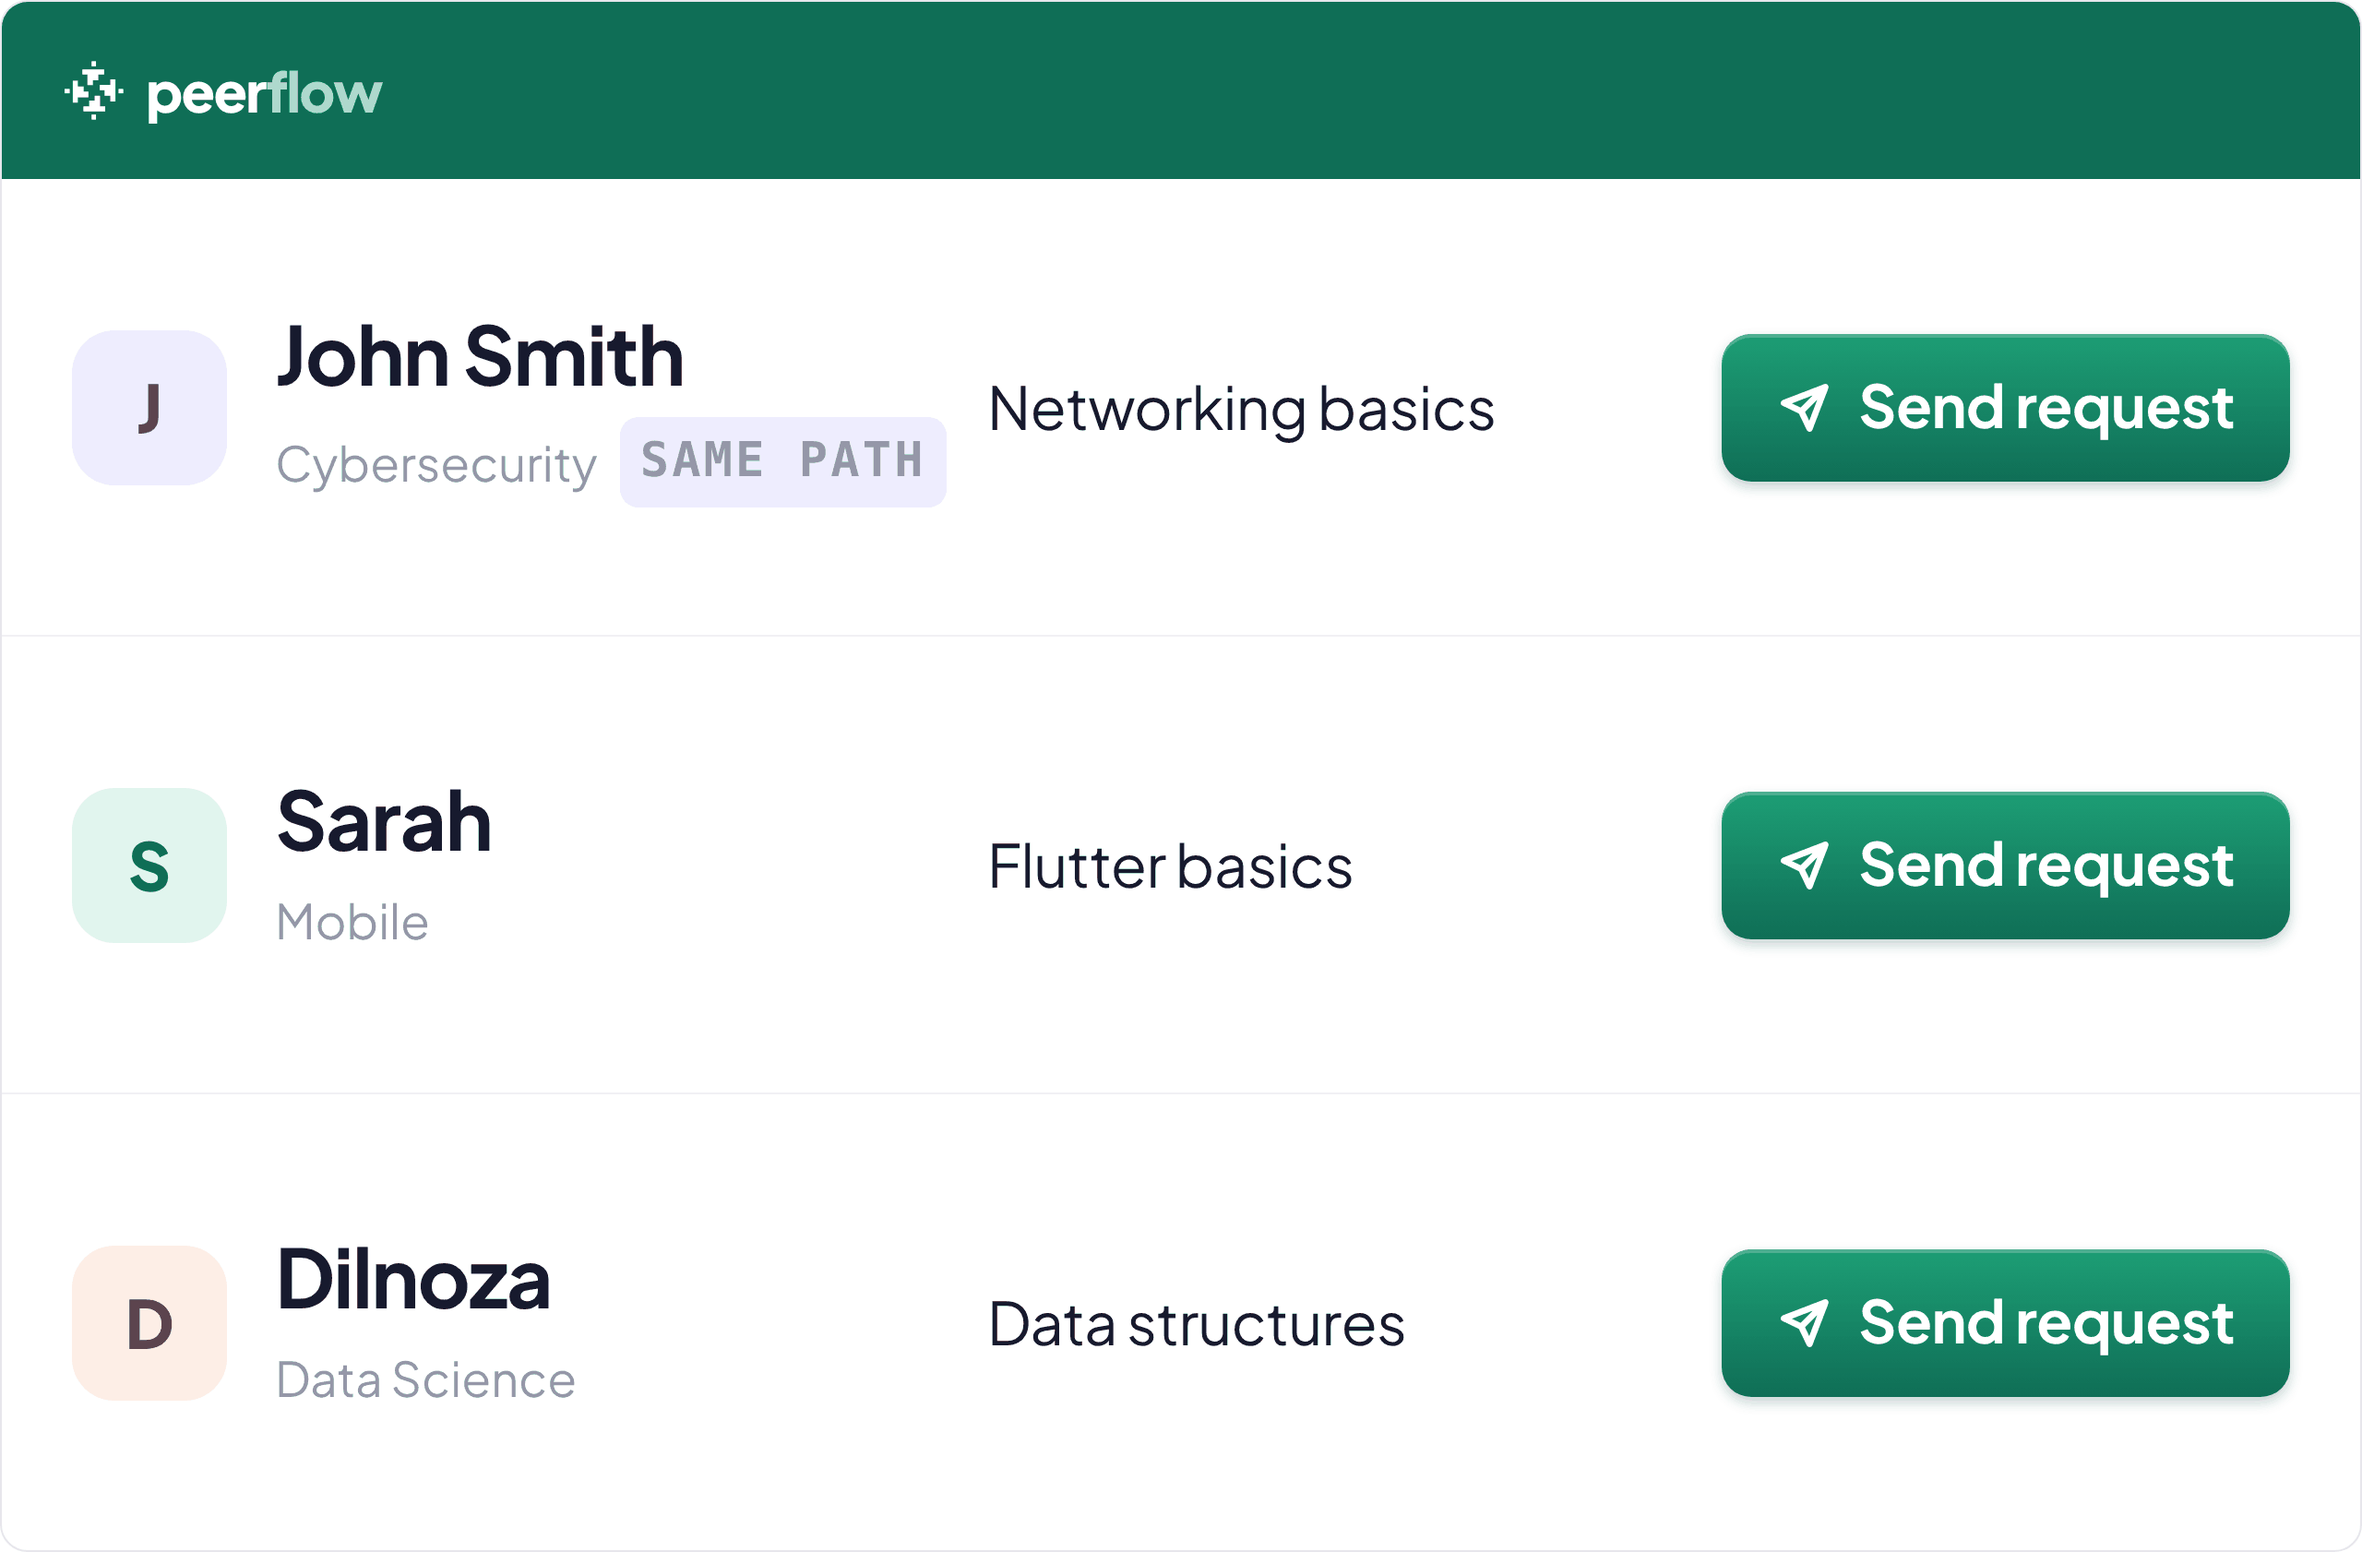
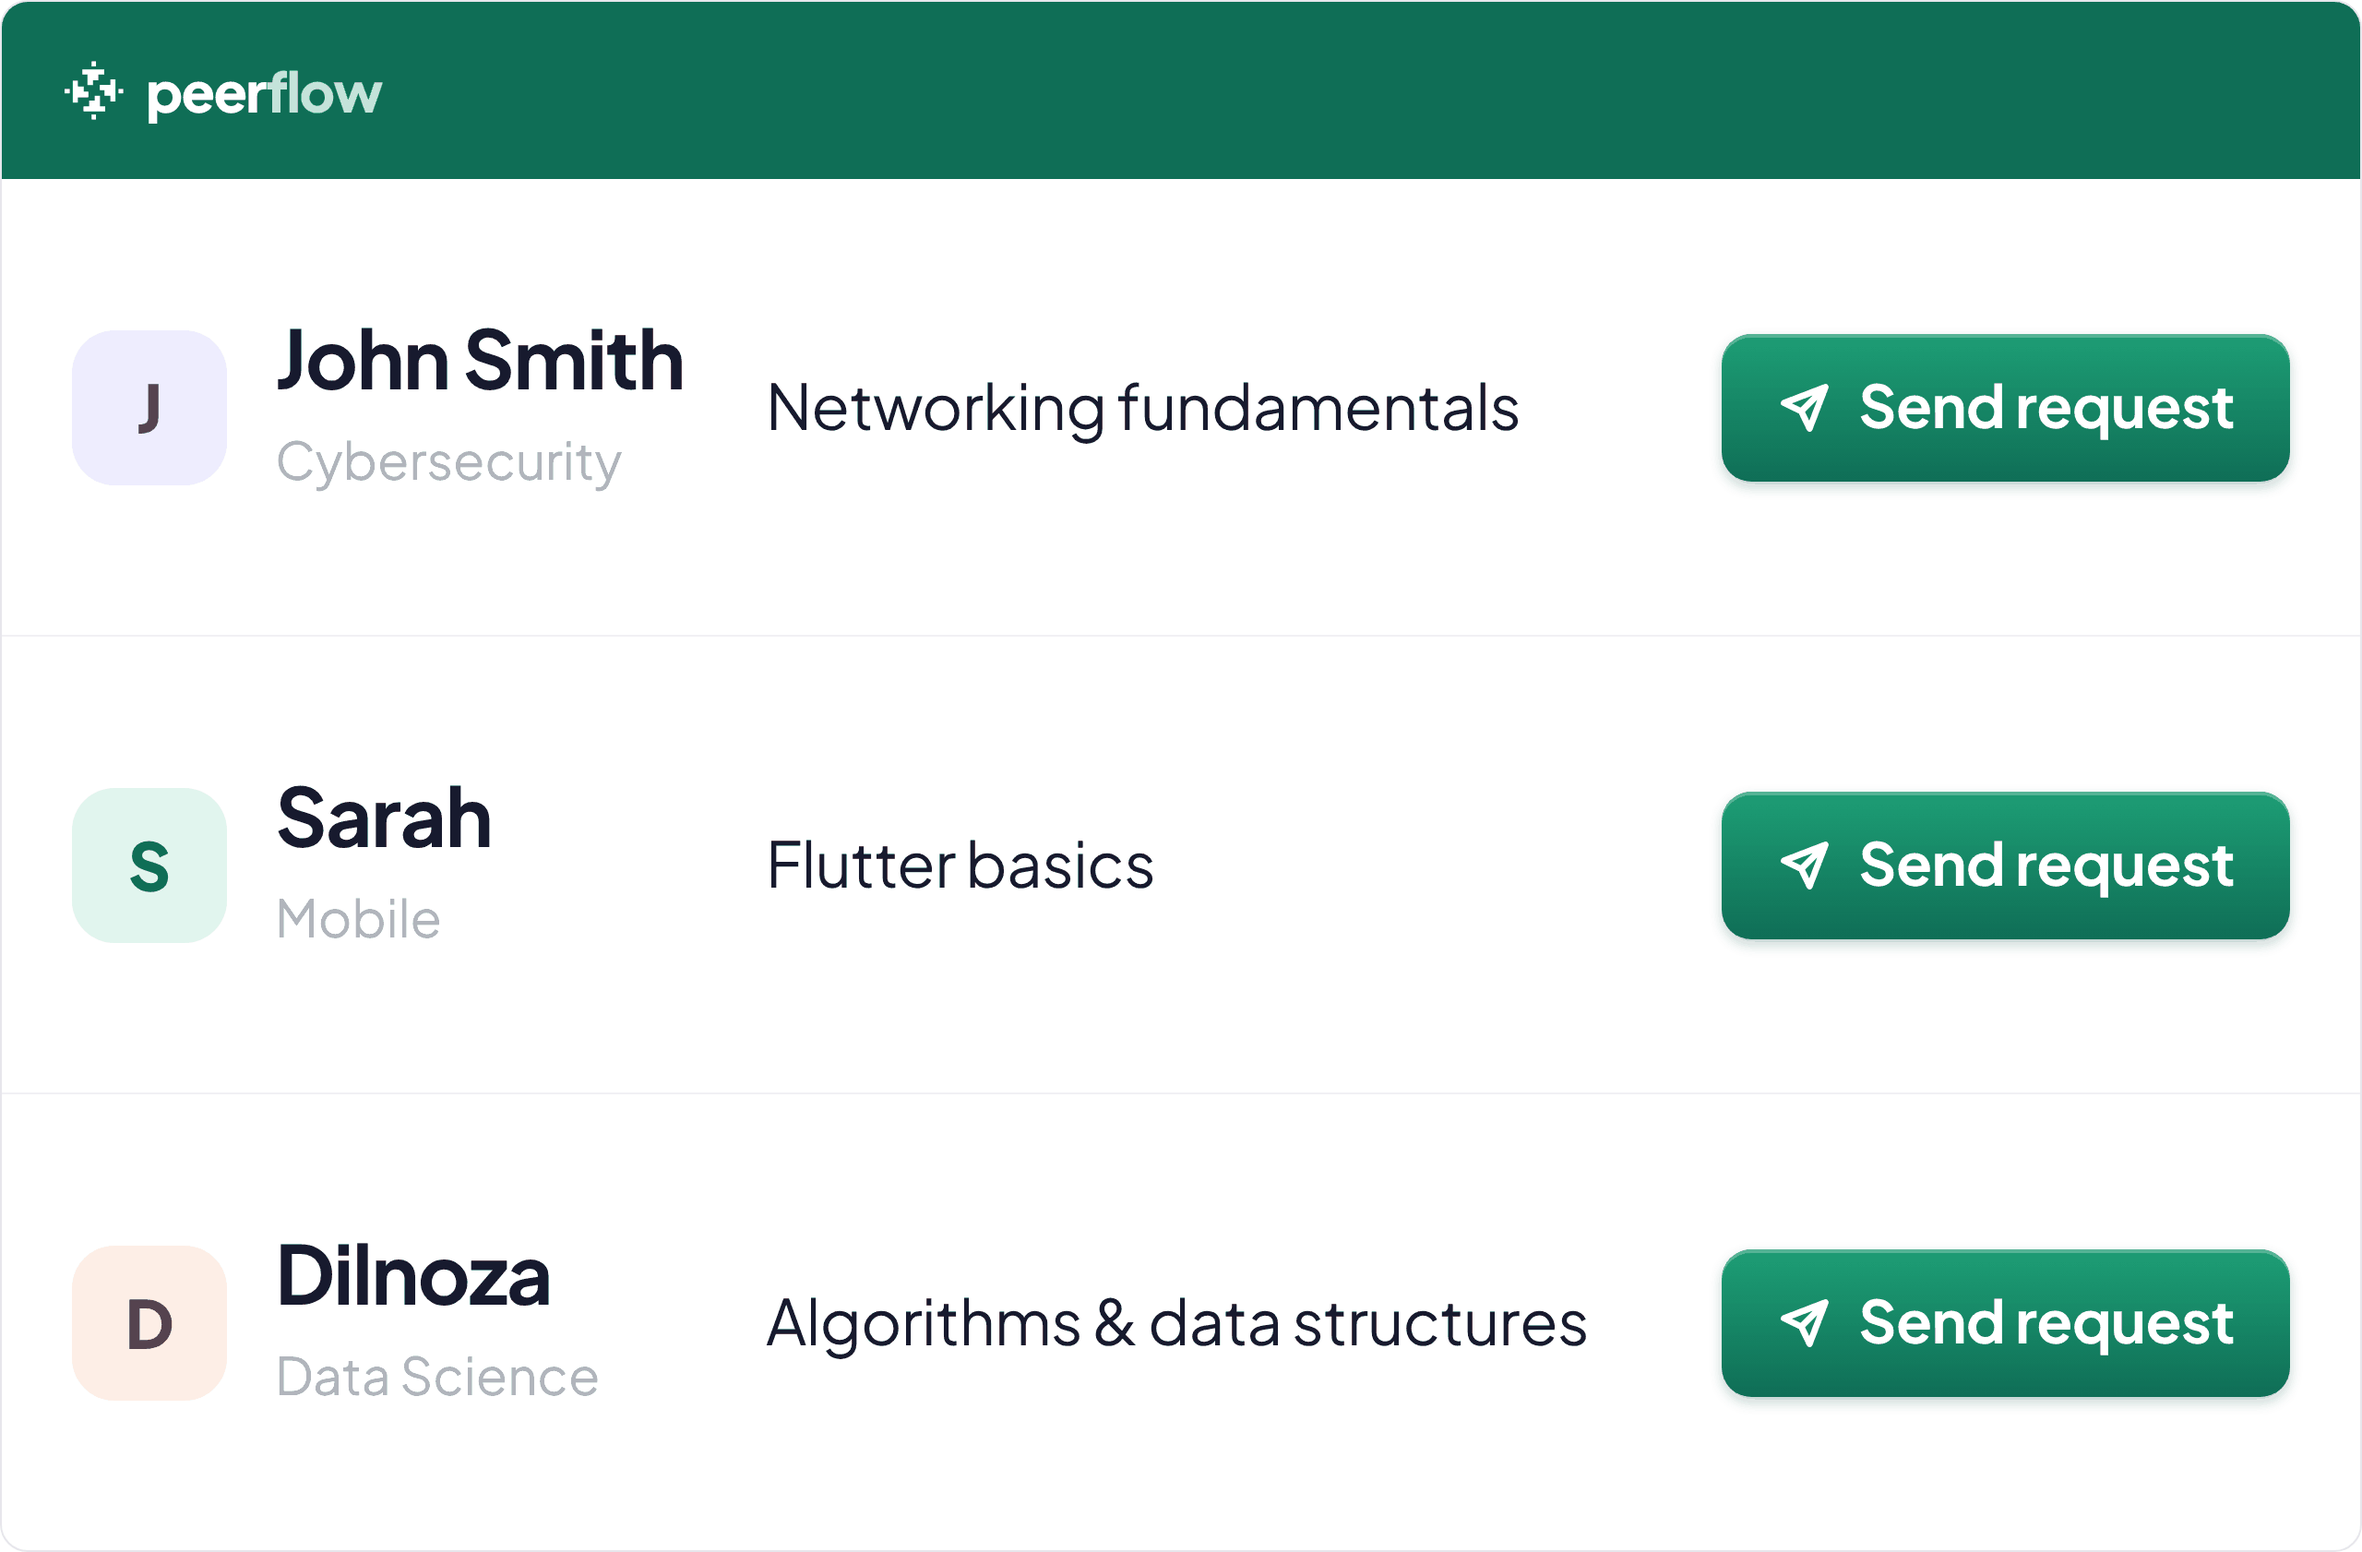
The SAME PATH tag comes out of step two's picture, and the goals get their words back
Asked for directly, and it was making the same point twice: every row already
names a path, and the caption under the card — "See people with a similar
goal, experience level and weekly availability" — is the place that says they
are matched to yours. A tag on one of three rows was a third way of saying it,
in the smallest type on the frame.

It was also the widest thing in the person column, which is what had forced
the learning goals to be abbreviated in the first commit: "Networking
fundamentals" needed 417px in a 330px column, so it became "Networking
basics". With the tag gone, and the person column cut to the 240px its own two
lines actually need (the name measures 231, the path line 189), the middle
column goes from 330px to 494 — past the 456 the longest goal asks for at
34px. So the full wording is back on all three rows.

THE WRAP CHECK ADDED IN THIS COMMIT WAS WRONG, AND SAID SO

It was written to catch exactly the failure above, and the first version of it
passed on a picture that plainly wrapped. It counted getClientRects() on the
.pfocus element — but .pfocus is a flex item, so it is blockified, and an
element box is one rect however many lines of text sit inside it.

It now takes a Range across the text node, which returns one rect per line.
Against the same frame it fails with

  row 3 ("Algorithms & data structures") wraps to 2 lines

which is what made the column arithmetic above necessary rather than
[…]

diff --git a/assets/how-frames.html b/assets/how-frames.html
@@ -11,8 +11,7 @@
      app.css. Without it the declaration is invalid at computed-value time,
      which does not fall back to app.css's font — it falls back to the
      browser default, and every picture ever rendered from this file came
-     out in a serif. --mono, which the SAME PATH tag uses, is in the same
-     file. dev/seo-tests.js has a check for exactly this, but it walks the
+     out in a serif. dev/seo-tests.js has a check for exactly this, but it walks the
      .html files in the repo root and this one lives in assets/, so nothing
      was watching. dev/how-frames-render.js now refuses to write a picture
      whose text is not actually set in Plus Jakarta Sans. -->
@@ -52,9 +51,16 @@
 
      So each row now carries what the real People page carries: who, which
      path they are on, what they are working on this month, and the one
-     control. The SAME PATH tag is here because it is the whole promise of the
-     step underneath — you are not being shown everybody, you are being shown
-     people going where you are going.
+     control.
+
+     A SAME PATH tag sat on the first row for a while and has been taken out.
+     It was making the same point twice — every row already names a path, and
+     the caption under the card is the place that says they are matched to
+     yours — and it was the widest thing in the person column, which is what
+     forced the learning goals to be abbreviated. Removing it, and shrinking
+     the person column to the 240px its own two lines actually need, gave the
+     middle column 494px instead of 330 — enough for the longest goal at 456,
+     so the full wording came back with it.
 
      Sizes are for the card, not for this canvas. At 322px on the landing page
      everything here is a quarter of the number in this block, so 46px reads
@@ -70,17 +76,14 @@
      separate an avatar from a status dot. */
   .pav{width:84px;height:84px;border-radius:23px;flex:0 0 auto;display:grid;place-items:center;
     font-size:36px;font-weight:800}
-  .pwho{flex:0 0 360px;min-width:0}
+  .pwho{flex:0 0 240px;min-width:0}
   .pnm{display:block;font-size:44px;font-weight:700;letter-spacing:-.02em;line-height:1.15}
   .ppath{display:flex;align-items:center;gap:12px;margin-top:9px}
-  .ppath span{font-size:26px;color:#9497A9;white-space:nowrap}
-  .pchip{padding:4px 11px;border-radius:10px;background:#EEEDFE;color:#3C3489;
-    font-family:var(--mono);font-size:18px;font-weight:700;letter-spacing:.06em;
-    white-space:nowrap}
+  .ppath span{font-size:28px;color:#9497A9;white-space:nowrap}
   /* The middle column is the one thing the old frame had no room for, so it
      gets the ink: same size as the button's label, in the body colour rather
      than the grey the path line takes. */
-  .pfocus{flex:1;min-width:0;font-size:32px;letter-spacing:-.01em;line-height:1.25}
+  .pfocus{flex:1;min-width:0;font-size:34px;letter-spacing:-.01em;line-height:1.25}
   .pbtn{flex:0 0 auto;height:80px;border-radius:16px;display:inline-flex;
     align-items:center;gap:14px;padding:0 30px;font-size:32px;font-weight:700;
     letter-spacing:-.01em;white-space:nowrap;
@@ -130,9 +133,9 @@
       <span class="pav" style="background:#EEEDFE;color:#3C3489">J</span>
       <span class="pwho">
         <span class="pnm">John Smith</span>
-        <span class="ppath"><span>Cybersecurity</span><span class="pchip">SAME PATH</span></span>
+        <span class="ppath"><span>Cybersecurity</span></span>
       </span>
-      <span class="pfocus">Networking basics</span>
+      <span class="pfocus">Networking fundamentals</span>
       <span class="pbtn">
         <svg viewBox="0 0 16 16" fill="none"><path d="M14 2L7 9M14 2l-4.6 12-2.4-5-5-2.4L14 2z" stroke="currentColor" stroke-width="1.8" stroke-linejoin="round"/></svg>
         Send request</span>
@@ -154,7 +157,7 @@
         <span class="pnm">Dilnoza</span>
         <span class="ppath"><span>Data Science</span></span>
       </span>
-      <span class="pfocus">Data structures</span>
+      <span class="pfocus">Algorithms &amp; data structures</span>
       <span class="pbtn">
         <svg viewBox="0 0 16 16" fill="none"><path d="M14 2L7 9M14 2l-4.6 12-2.4-5-5-2.4L14 2z" stroke="currentColor" stroke-width="1.8" stroke-linejoin="round"/></svg>
         Send request</span>

diff --git a/dev/how-frames-render.js b/dev/how-frames-render.js
@@ -208,6 +208,27 @@ im.quantize(colors=64, method=Image.MEDIANCUT, dither=Image.FLOYDSTEINBERG).save
     }, t.id);
     if (collisions.length) { fail(`#${t.id}: ` + collisions.join('; ')); continue; }
 
+    /* Every learning goal on one line. Not a nicety: a goal that wraps makes
+       its row taller than the other two, and at a quarter size an uneven row
+       is the first thing the eye lands on — which is the wrong thing, since
+       nothing about that row is more important. It happened once already,
+       with "Networking fundamentals" in a 330px column. */
+    const wrapped = await page.evaluate((id) =>
+      [...document.querySelectorAll('#' + id + ' .pfocus')]
+        .map((n, i) => {
+          /* Over the TEXT, not the element. .pfocus is a flex item, so it is
+             blockified and getClientRects() on the element returns exactly one
+             box however many lines are inside it — which is how the first
+             version of this check passed while the picture plainly wrapped.
+             A Range across the text node returns one rect per line. */
+          const range = document.createRange();
+          range.selectNodeContents(n);
+          return { i: i + 1, lines: range.getClientRects().length, text: n.textContent.trim() };
+        })
+        .filter((x) => x.lines > 1)
+        .map((x) => `row ${x.i} ("${x.text}") wraps to ${x.lines} lines`), t.id);
+    if (wrapped.length) { fail(`#${t.id}: ` + wrapped.join('; ')); continue; }
+
     const out = path.join(ROOT, t.out);
     const before = fs.existsSync(out) ? fs.statSync(out).size : 0;
     await el.screenshot({ path: out });

diff --git a/draft.html b/draft.html
@@ -233,8 +233,7 @@
        names and three buttons — it said a list exists, without saying what the
        list knows about anybody on it, which is the only reason to look at one.
        It now carries what the People page carries: the path, what the person
-       is working on, and the Same path tag, which is the promise the caption
-       under it makes. Both drawn frames are rendered by dev/how-frames-render.js
+       is working on. Both drawn frames are rendered by dev/how-frames-render.js
        rather than by hand, so the picture and the markup that claims to draw it
        cannot drift apart again.
 
@@ -344,7 +343,7 @@
       <article class="how-card">
         <div class="how-shot">
           <img src="assets/how-1-find.png" width="1280" height="841" loading="lazy"
-               alt="Three learners with their path and what they are working on, each with a Send request button, and a Same path tag on the one matching yours">
+               alt="Three learners with their path and what they are working on, each with a Send request button">
         </div>
         <div class="how-body">
           <span class="mono">Step two</span>
@@ -653,7 +652,7 @@
 <script src="assets/db.js"></script>
 <script src="assets/home.js"></script>
 <script src="assets/usermenu.js"></script>
-  <div class="draftmark">Draft. Only step two\u2019s picture changed \u2014
+  <div class="draftmark">Draft. Only step two’s picture changed —
     <a href="#how">jump to it</a>. The four steps and everything else are as they ship.</div>
 </body>
 </html>

diff --git a/index.html b/index.html
@@ -266,8 +266,7 @@
        names and three buttons — it said a list exists, without saying what the
        list knows about anybody on it, which is the only reason to look at one.
        It now carries what the People page carries: the path, what the person
-       is working on, and the Same path tag, which is the promise the caption
-       under it makes. Both drawn frames are rendered by dev/how-frames-render.js
+       is working on. Both drawn frames are rendered by dev/how-frames-render.js
        rather than by hand, so the picture and the markup that claims to draw it
        cannot drift apart again.
 
@@ -377,7 +376,7 @@
       <article class="how-card">
         <div class="how-shot">
           <img src="assets/how-1-find.png" width="1280" height="841" loading="lazy"
-               alt="Three learners with their path and what they are working on, each with a Send request button, and a Same path tag on the one matching yours">
+               alt="Three learners with their path and what they are working on, each with a Send request button">
         </div>
         <div class="how-body">
           <span class="mono">Step two</span>
